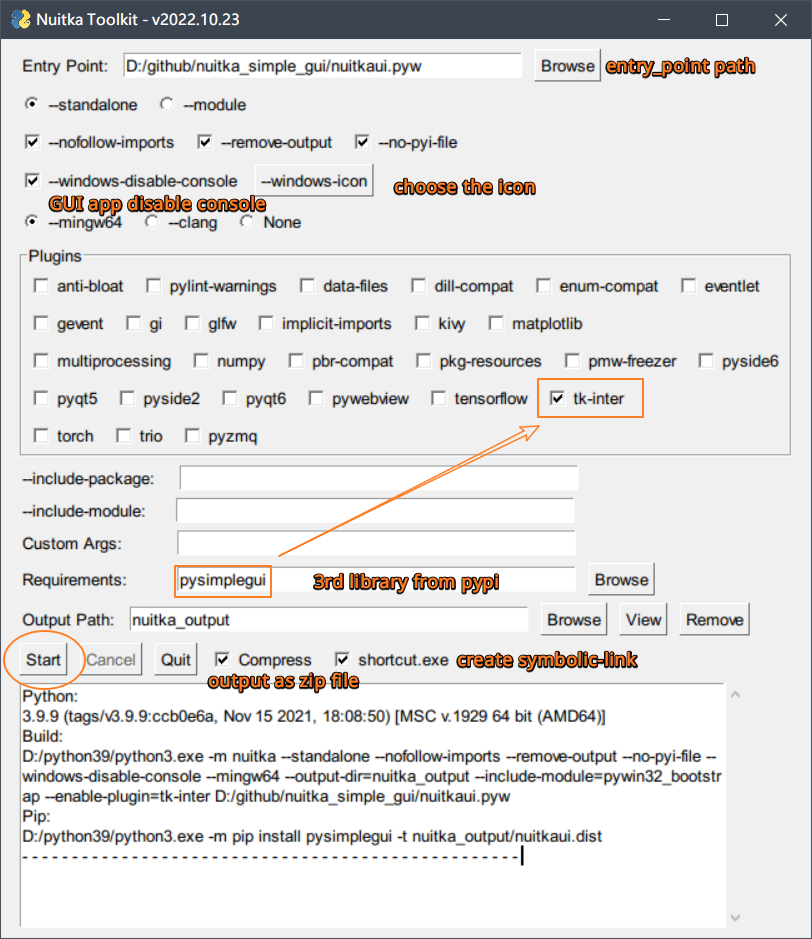
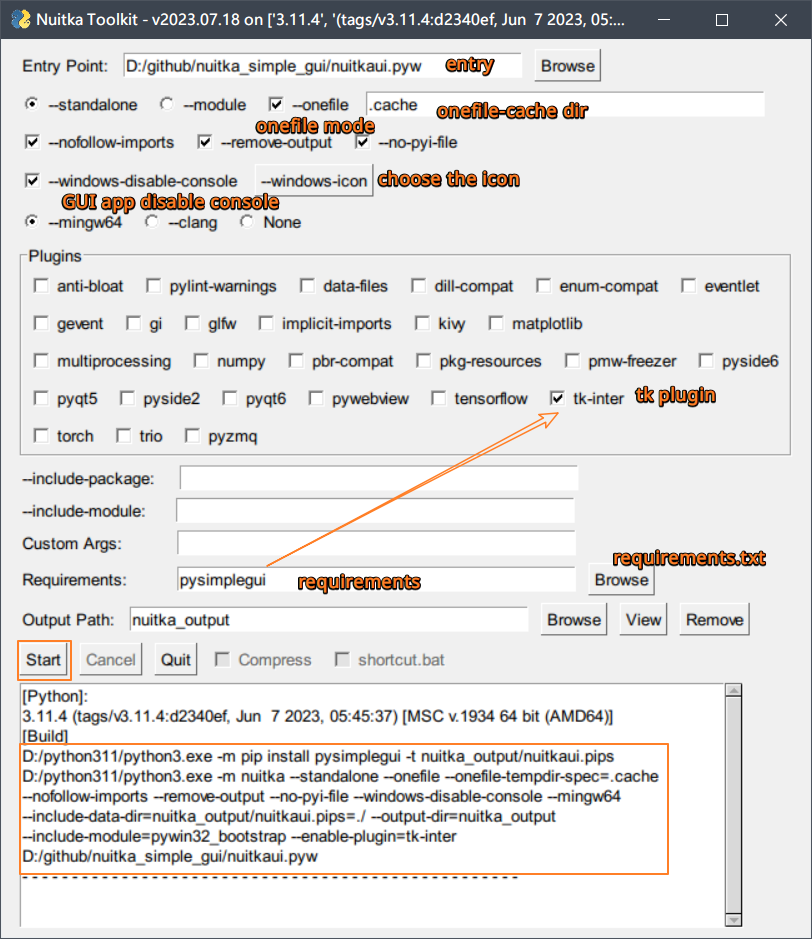
onefile mode

diff --git a/README.md b/README.md
@@ -8,12 +8,16 @@ A simple GUI app of nuitka
    3. Compress folder to a zip file
    4. Add a symbolic link for start.exe
    5. Dependency and source code separation, only build the source code
+   6. add `onefile` mode(`2023.07.18`)
+   7. add `beep` after finished on windows(`2023.07.18`)
 2. Why not upload to pypi.org?
    1. Not a good work yet
       1. Dirty code structure
       2. Just for simple use, and it does work
 3. User manual
-   1. How to build
+   1. ENSURE you have installed gcc/MinGW64
+      1. use the cmdline args from GUI, and type them to terminal manual at the first using.
+   2. How to build
       1. Download it
          1. source code or windows executable
             1. [Source Code](https://github.com/ClericPy/nuitka_simple_gui/blob/master/nuitkaui.pyw)
@@ -25,7 +29,7 @@ A simple GUI app of nuitka
             1. May also be compatible with other systems
       3. View it
          1. click the **View** button of Output Path line.
-   2. How to use
+   3. How to use
       1. Run the app.bat for short, but it will flash a console
       2. Or you can run the app.exe in the folder app.dist
 4. Documentation?
